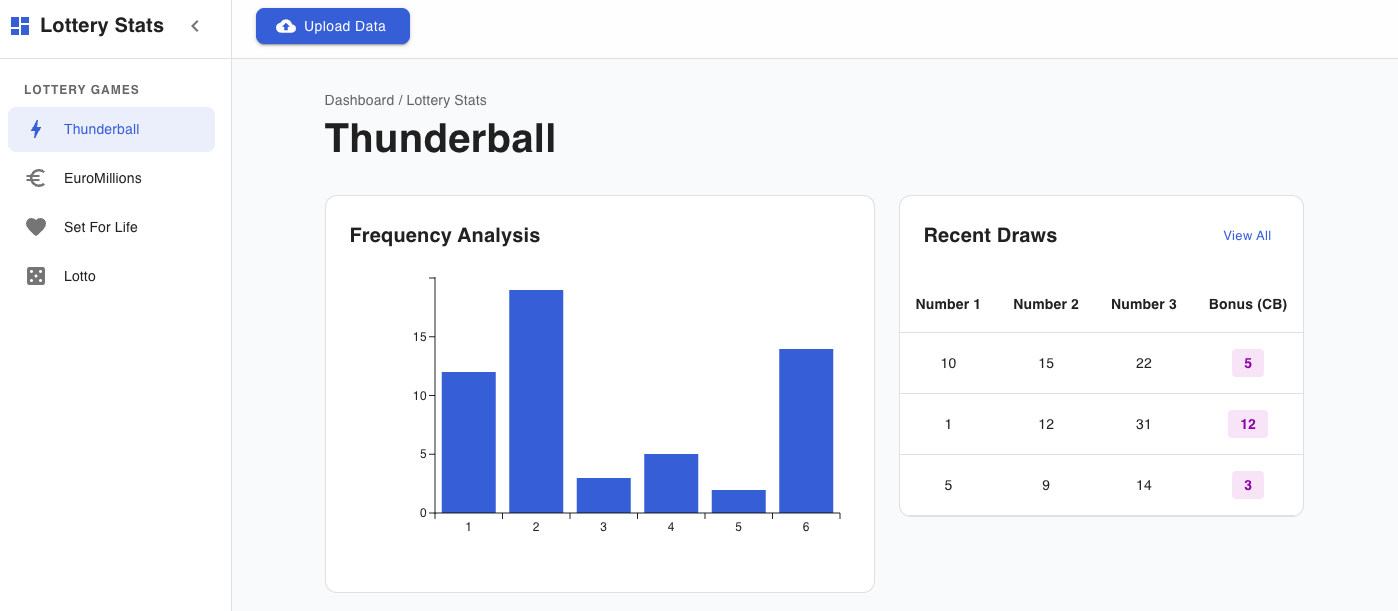
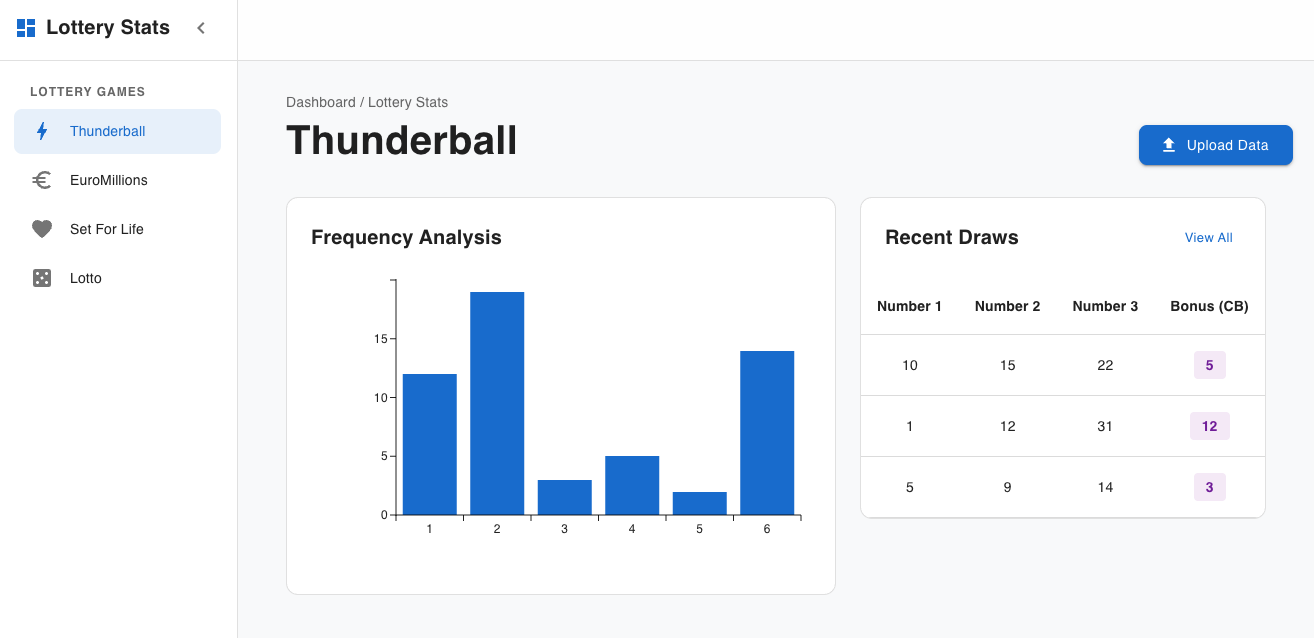
Update web
- Fix the position of buttons.

diff --git a/web/src/App.jsx b/web/src/App.jsx
@@ -24,10 +24,15 @@ import {
   useTheme,
   useMediaQuery,
   Grid,
-  alpha
+  alpha,
+  Dialog,
+  DialogTitle,
+  DialogContent,
+  DialogContentText,
+  DialogActions
 } from '@mui/material';
 import { BarChart } from '@mui/x-charts/BarChart';
-import CloudUploadIcon from '@mui/icons-material/CloudUpload';
+import FileUploadIcon from '@mui/icons-material/FileUpload';
 import MenuIcon from '@mui/icons-material/Menu';
 import ChevronLeftIcon from '@mui/icons-material/ChevronLeft';
 import DashboardIcon from '@mui/icons-material/Dashboard';
@@ -69,9 +74,18 @@ function App() {
   // Start closed on mobile, open on larger screens
   const [open, setOpen] = useState(!isMobile);
   const [selectedGame, setSelectedGame] = useState('Thunderball');
+  const [openUploadDialog, setOpenUploadDialog] = useState(false);
 
   const handleDrawerToggle = () => {
     setOpen(!open);
+  };
+
+  const handleUploadClick = () => {
+    setOpenUploadDialog(true);
+  };
+
+  const handleUploadClose = () => {
+    setOpenUploadDialog(false);
   };
 
   const drawerContent = (
@@ -162,20 +176,6 @@ function App() {
             >
               <MenuIcon />
             </IconButton>
-            {!isMobile && (
-              <Button
-                variant="contained"
-                startIcon={<CloudUploadIcon />}
-                sx={{ 
-                  borderRadius: 2, 
-                  textTransform: 'none',
-                  px: 3,
-                  boxShadow: theme.shadows[2],
-                }}
-              >
-                Upload Data
-              </Button>
-            )}
           </Box>
         </Toolbar>
       </AppBar>
@@ -250,6 +250,20 @@ function App() {
                 {selectedGame}
               </Typography>
             </Box>
+            <Button
+              variant="contained"
+              startIcon={<FileUploadIcon />}
+              onClick={handleUploadClick}
+              sx={{ 
+                borderRadius: 2, 
+                textTransform: 'none',
+                px: 3,
+                py: 1,
+                boxShadow: theme.shadows[2],
+              }}
+            >
+              Upload Data
+            </Button>
           </Box>
 
           <Grid container spacing={3}>
@@ -337,6 +351,43 @@ function App() {
           </Grid>
         </Container>
       </Box>
+      <Dialog open={openUploadDialog} onClose={handleUploadClose} maxWidth="sm" fullWidth>
+        <DialogTitle>Upload Data for {selectedGame}</DialogTitle>
+        <DialogContent>
+          <DialogContentText sx={{ mb: 2 }}>
+            Select a CSV file from your local machine to update the draw history for {selectedGame}.
+          </DialogContentText>
+          <Box 
+            sx={{ 
+              border: '2px dashed', 
+              borderColor: 'divider', 
+              borderRadius: 2, 
+              p: 4, 
+              textAlign: 'center',
+              bgcolor: alpha(theme.palette.primary.main, 0.02),
+              cursor: 'pointer',
+              '&:hover': {
+                bgcolor: alpha(theme.palette.primary.main, 0.05),
+                borderColor: theme.palette.primary.main
+              }
+            }}
+          >
+            <FileUploadIcon sx={{ fontSize: 48, color: 'text.secondary', mb: 1 }} />
+            <Typography variant="body1" fontWeight={500}>
+              Click or drag file to this area to upload
+            </Typography>
+            <Typography variant="caption" color="text.secondary">
+              Support for single CSV file upload.
+            </Typography>
+          </Box>
+        </DialogContent>
+        <DialogActions sx={{ px: 3, pb: 3 }}>
+          <Button onClick={handleUploadClose} sx={{ textTransform: 'none' }}>Cancel</Button>
+          <Button onClick={handleUploadClose} variant="contained" sx={{ textTransform: 'none', px: 3 }}>
+            Upload
+          </Button>
+        </DialogActions>
+      </Dialog>
     </Box>
   );
 }
